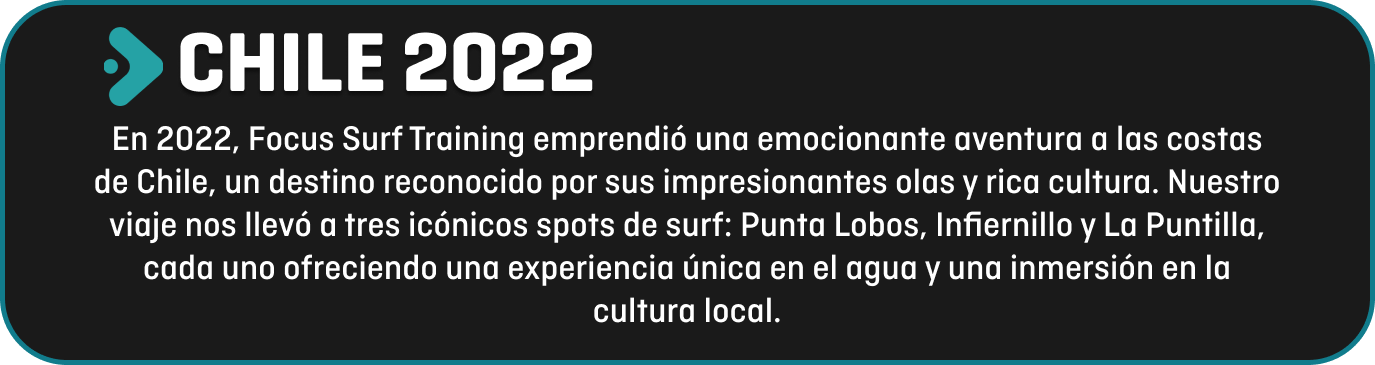
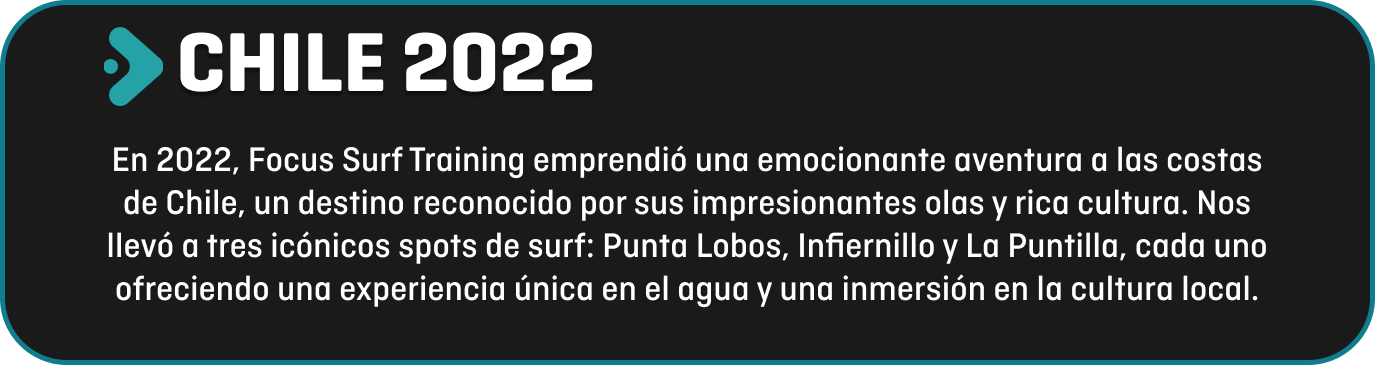
Agregado parte de PANAMA 2024 y corregido textos de viajes anteriores

Changed region(s): [[0.0611, 0.3315, 0.9469, 0.9041]]

diff --git a/Pages/FocusTrip.html b/Pages/FocusTrip.html
@@ -61,8 +61,15 @@
         <div class="Video">
             <iframe src="https://www.youtube.com/embed/xyd2GfVX8k0?si=jbDDCc-6IMIocSvG" title="YouTube video player" frameborder="0" allow="accelerometer; autoplay; clipboard-write; encrypted-media; gyroscope; picture-in-picture; web-share" allowfullscreen></iframe>
         </div>
-        <div class="Contenedor2">
 
+        <div class="image-container">
+            <img src="../Imagenes/SURF COACHING PANAMA 2024.png" alt="Foton">                    
+        </div> 
+        <div class="Video">
+            <iframe src="https://youtu.be/6rVMwSm2NJ0?si=g2jGBopacDl8_Dih" title="YouTube video player" frameborder="0" allow="accelerometer; autoplay; clipboard-write; encrypted-media; gyroscope; picture-in-picture; web-share" allowfullscreen></iframe>
+        </div>
+
+        <div class="Contenedor2">
             <div class="image-container">
                 <img src="../Imagenes/FILOSOFIA FOCUS.png" alt="Foton">                    
             </div> 
